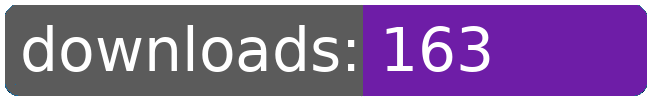
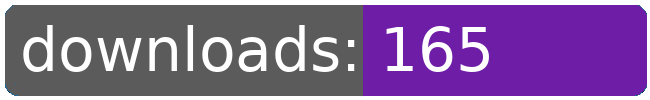
dl log written

Changed region(s): [[0.7077, 0.24, 0.7692, 0.54], [0.7385, 0.57, 0.7692, 0.66]]

diff --git a/README.md b/README.md
@@ -32,8 +32,8 @@
 		<td>76</td>
 		<td>118</td>
 		<td>155</td>
-		<td>163</td>
-		<td>+ 8</td>
+		<td>165</td>
+		<td>+ 10</td>
 	</tr>
 	<tr>
 		<td>bunrodeaoutfitter</td>
@@ -76,8 +76,8 @@
 		<td>2</td>
 		<td>9</td>
 		<td>10</td>
-		<td>12</td>
-		<td>+ 2</td>
+		<td>14</td>
+		<td>+ 4</td>
 	</tr>
 	<tr>
 		<td>jumpdrive.extended</td>
@@ -186,8 +186,8 @@
 		<td></td>
 		<td></td>
 		<td></td>
-		<td>2708</td>
-		<td>116</td>
+		<td>2712</td>
+		<td>120</td>
 	</tr>
 </table>
 </sub></sup>
@@ -311,8 +311,8 @@
 		<td>76</td>
 		<td>118</td>
 		<td>155</td>
-		<td>163</td>
-		<td>+ 8</td>
+		<td>165</td>
+		<td>+ 10</td>
 	</tr>
 	<tr>
 		<td>quargoutfitter</td>
@@ -355,8 +355,8 @@
 		<td>2</td>
 		<td>9</td>
 		<td>10</td>
-		<td>12</td>
-		<td>+ 2</td>
+		<td>14</td>
+		<td>+ 4</td>
 	</tr>
 	<tr>
 		<td>unlimited.embertear</td>
@@ -377,8 +377,8 @@
 		<td></td>
 		<td></td>
 		<td></td>
-		<td>2708</td>
-		<td>116</td>
+		<td>2712</td>
+		<td>120</td>
 	</tr>
 </table>
 </sub></sup>
